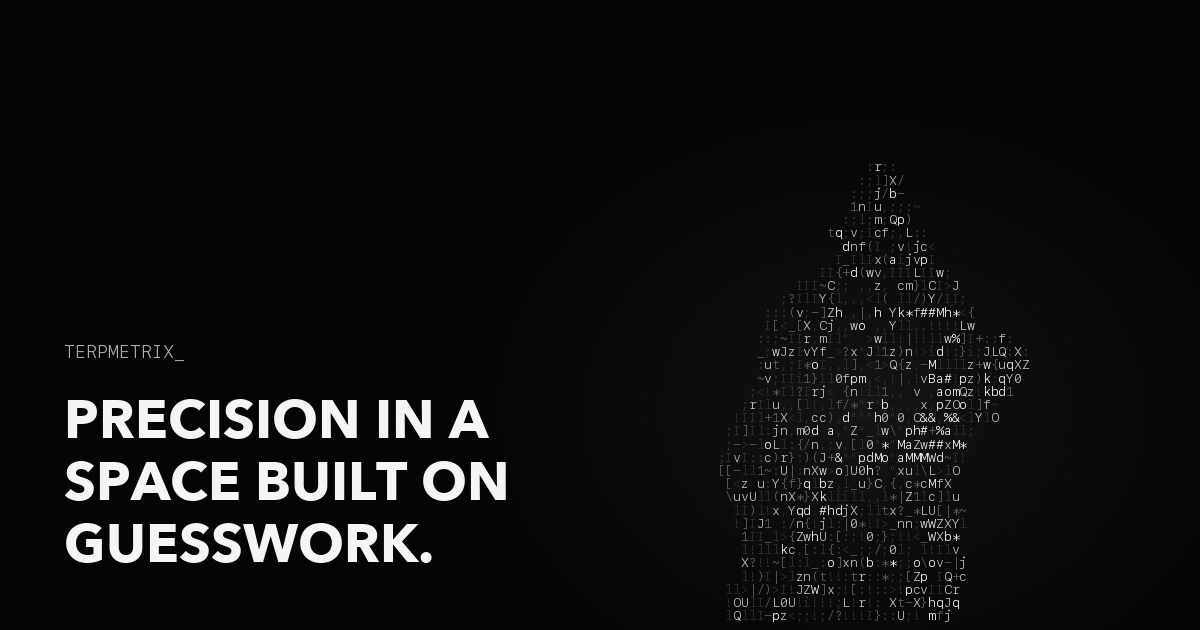
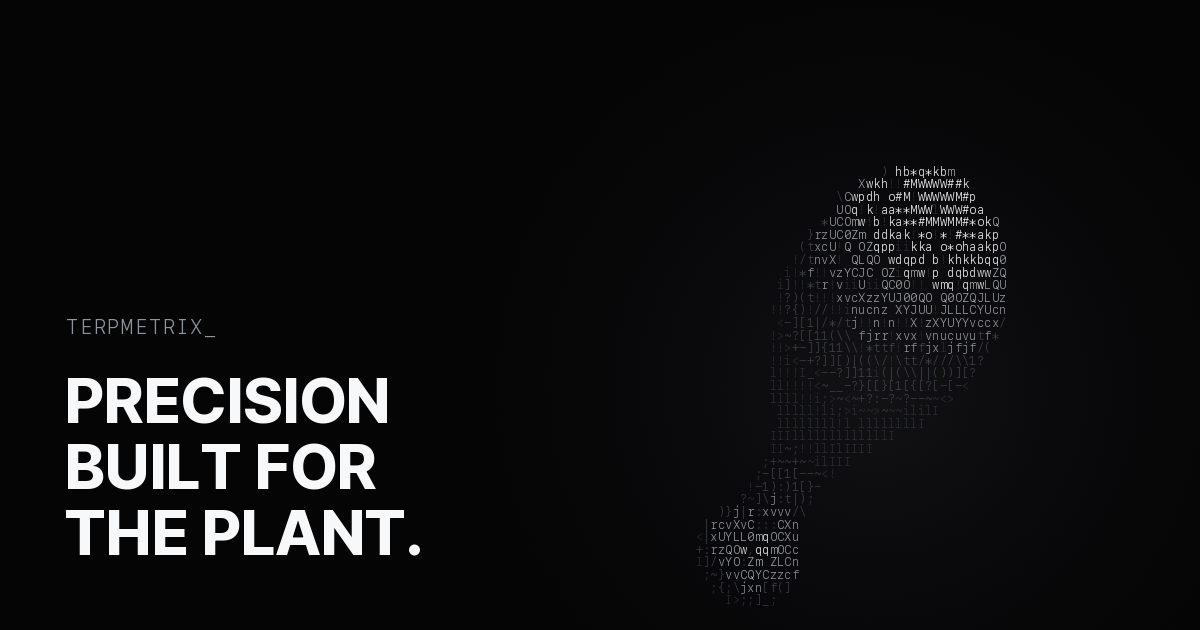
update hero tagline and open graph alt text to precision built for the plant

Changed region(s): [[0.5858, 0.2714, 0.8633, 0.9952], [0.0308, 0.6032, 0.4317, 0.9048], [0.0617, 0.5127, 0.1542, 0.573]]

diff --git a/components/terminal/HeroSection.js b/components/terminal/HeroSection.js
@@ -6,7 +6,7 @@ const HeroSection = ({ onRequestBriefing }) => {
       <div className="tmx-container">
         <div className="hero-grid">
           <div className="hero-copy">
-            <h1>PRECISION IN A SPACE BUILT ON GUESSWORK.</h1>
+            <h1>PRECISION BUILT FOR THE PLANT.</h1>
 
             <p className="hero-lead">
               Hardware, optics, and market intelligence built quietly in

diff --git a/components/Layout.js b/components/Layout.js
@@ -52,7 +52,7 @@ const Layout = ({
         <meta property="og:image:height" content="630" />
         <meta
           property="og:image:alt"
-          content="Precision in a space built on guesswork — Terpmetrix"
+          content="Precision built for the plant — Terpmetrix"
         />
 
         {/* Twitter / X Link Preview */}
